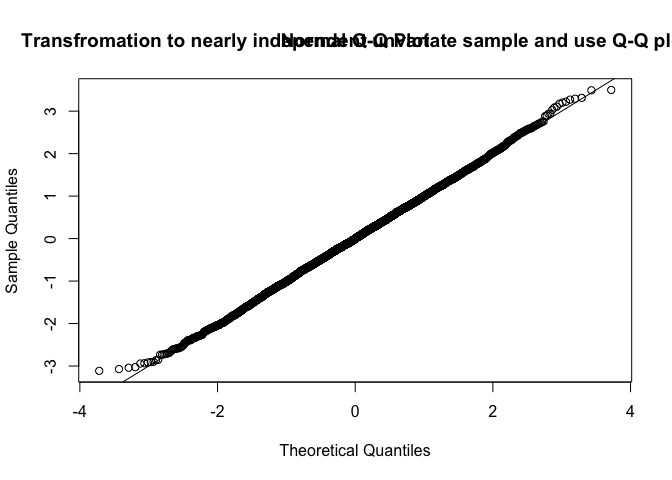
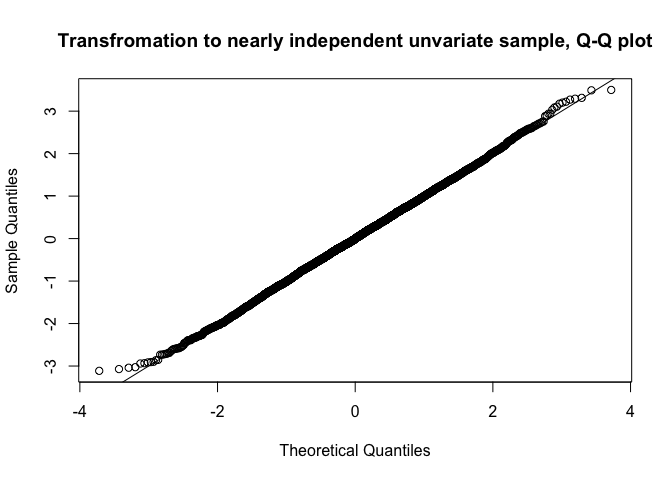
change README

Changed region(s): [[0.0312, 0.0625, 1.0, 0.125]]

diff --git a/README.md b/README.md
@@ -45,8 +45,7 @@ d4hCGF_plot(x); title("Using fourth derivatives of CGF")
 
 ``` r
 df <- Multi.to.Uni(x)
-qqnorm(df$x.new); abline(0, 1)
-title("Transfromation to nearly independent unvariate sample and use Q-Q plot")
+qqnorm(df$x.new, main = "Transfromation to nearly independent unvariate sample, Q-Q plot"); abline(0, 1)
 ```
 
 <img src="man/figures/README-unnamed-chunk-5-1.png" width="100%" />
